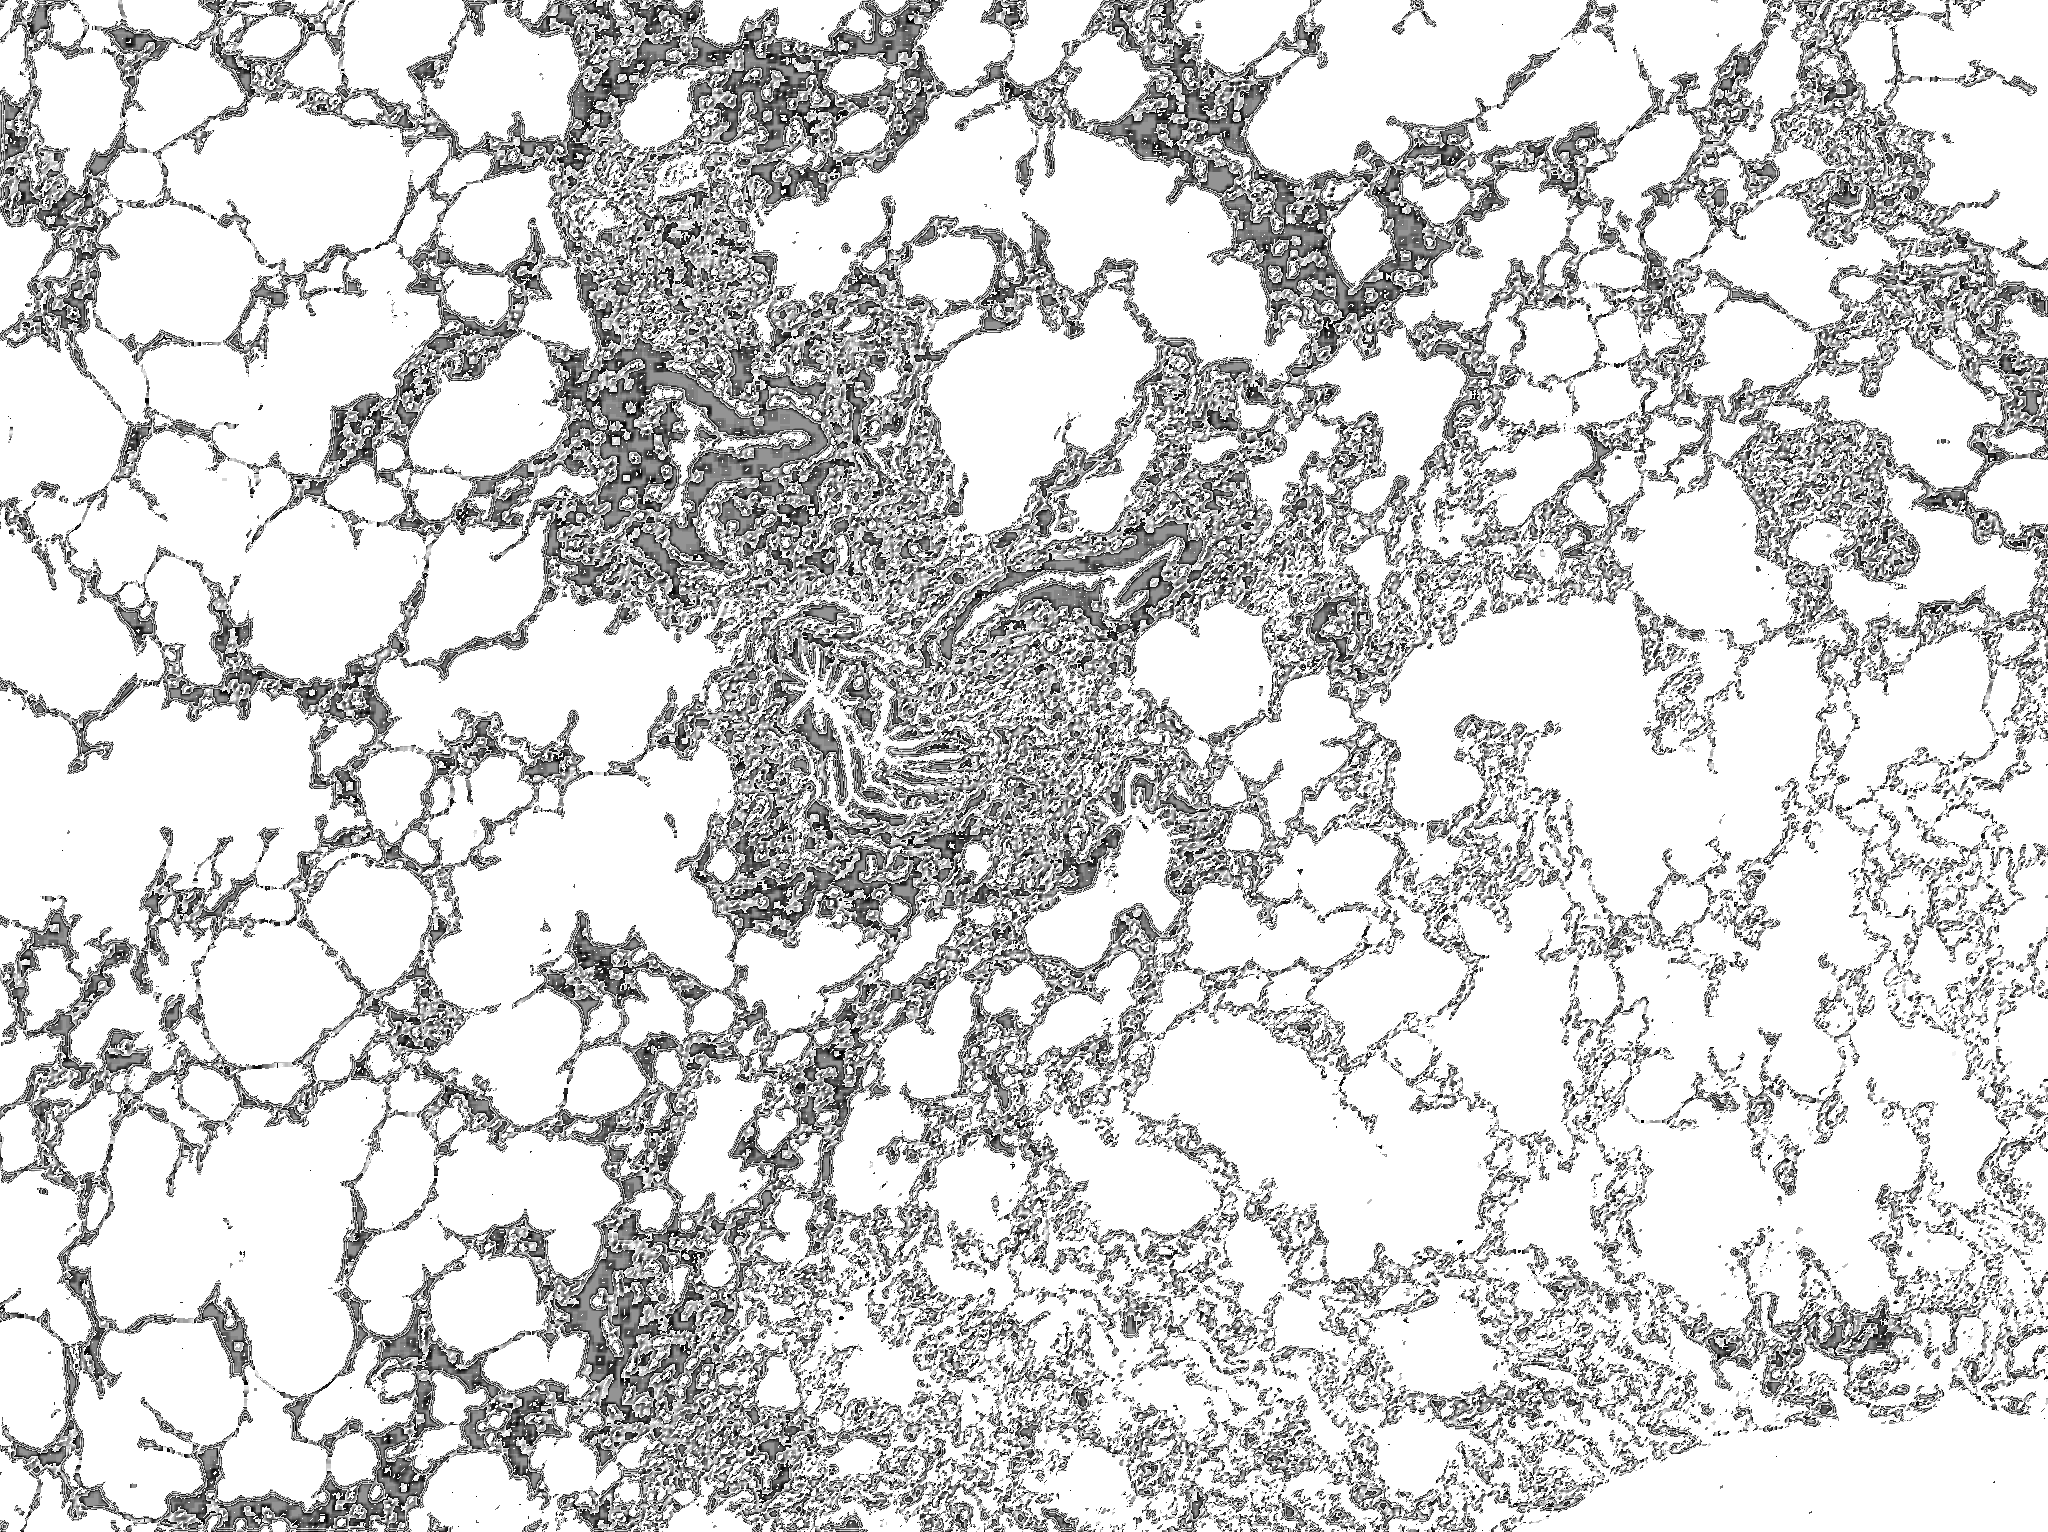
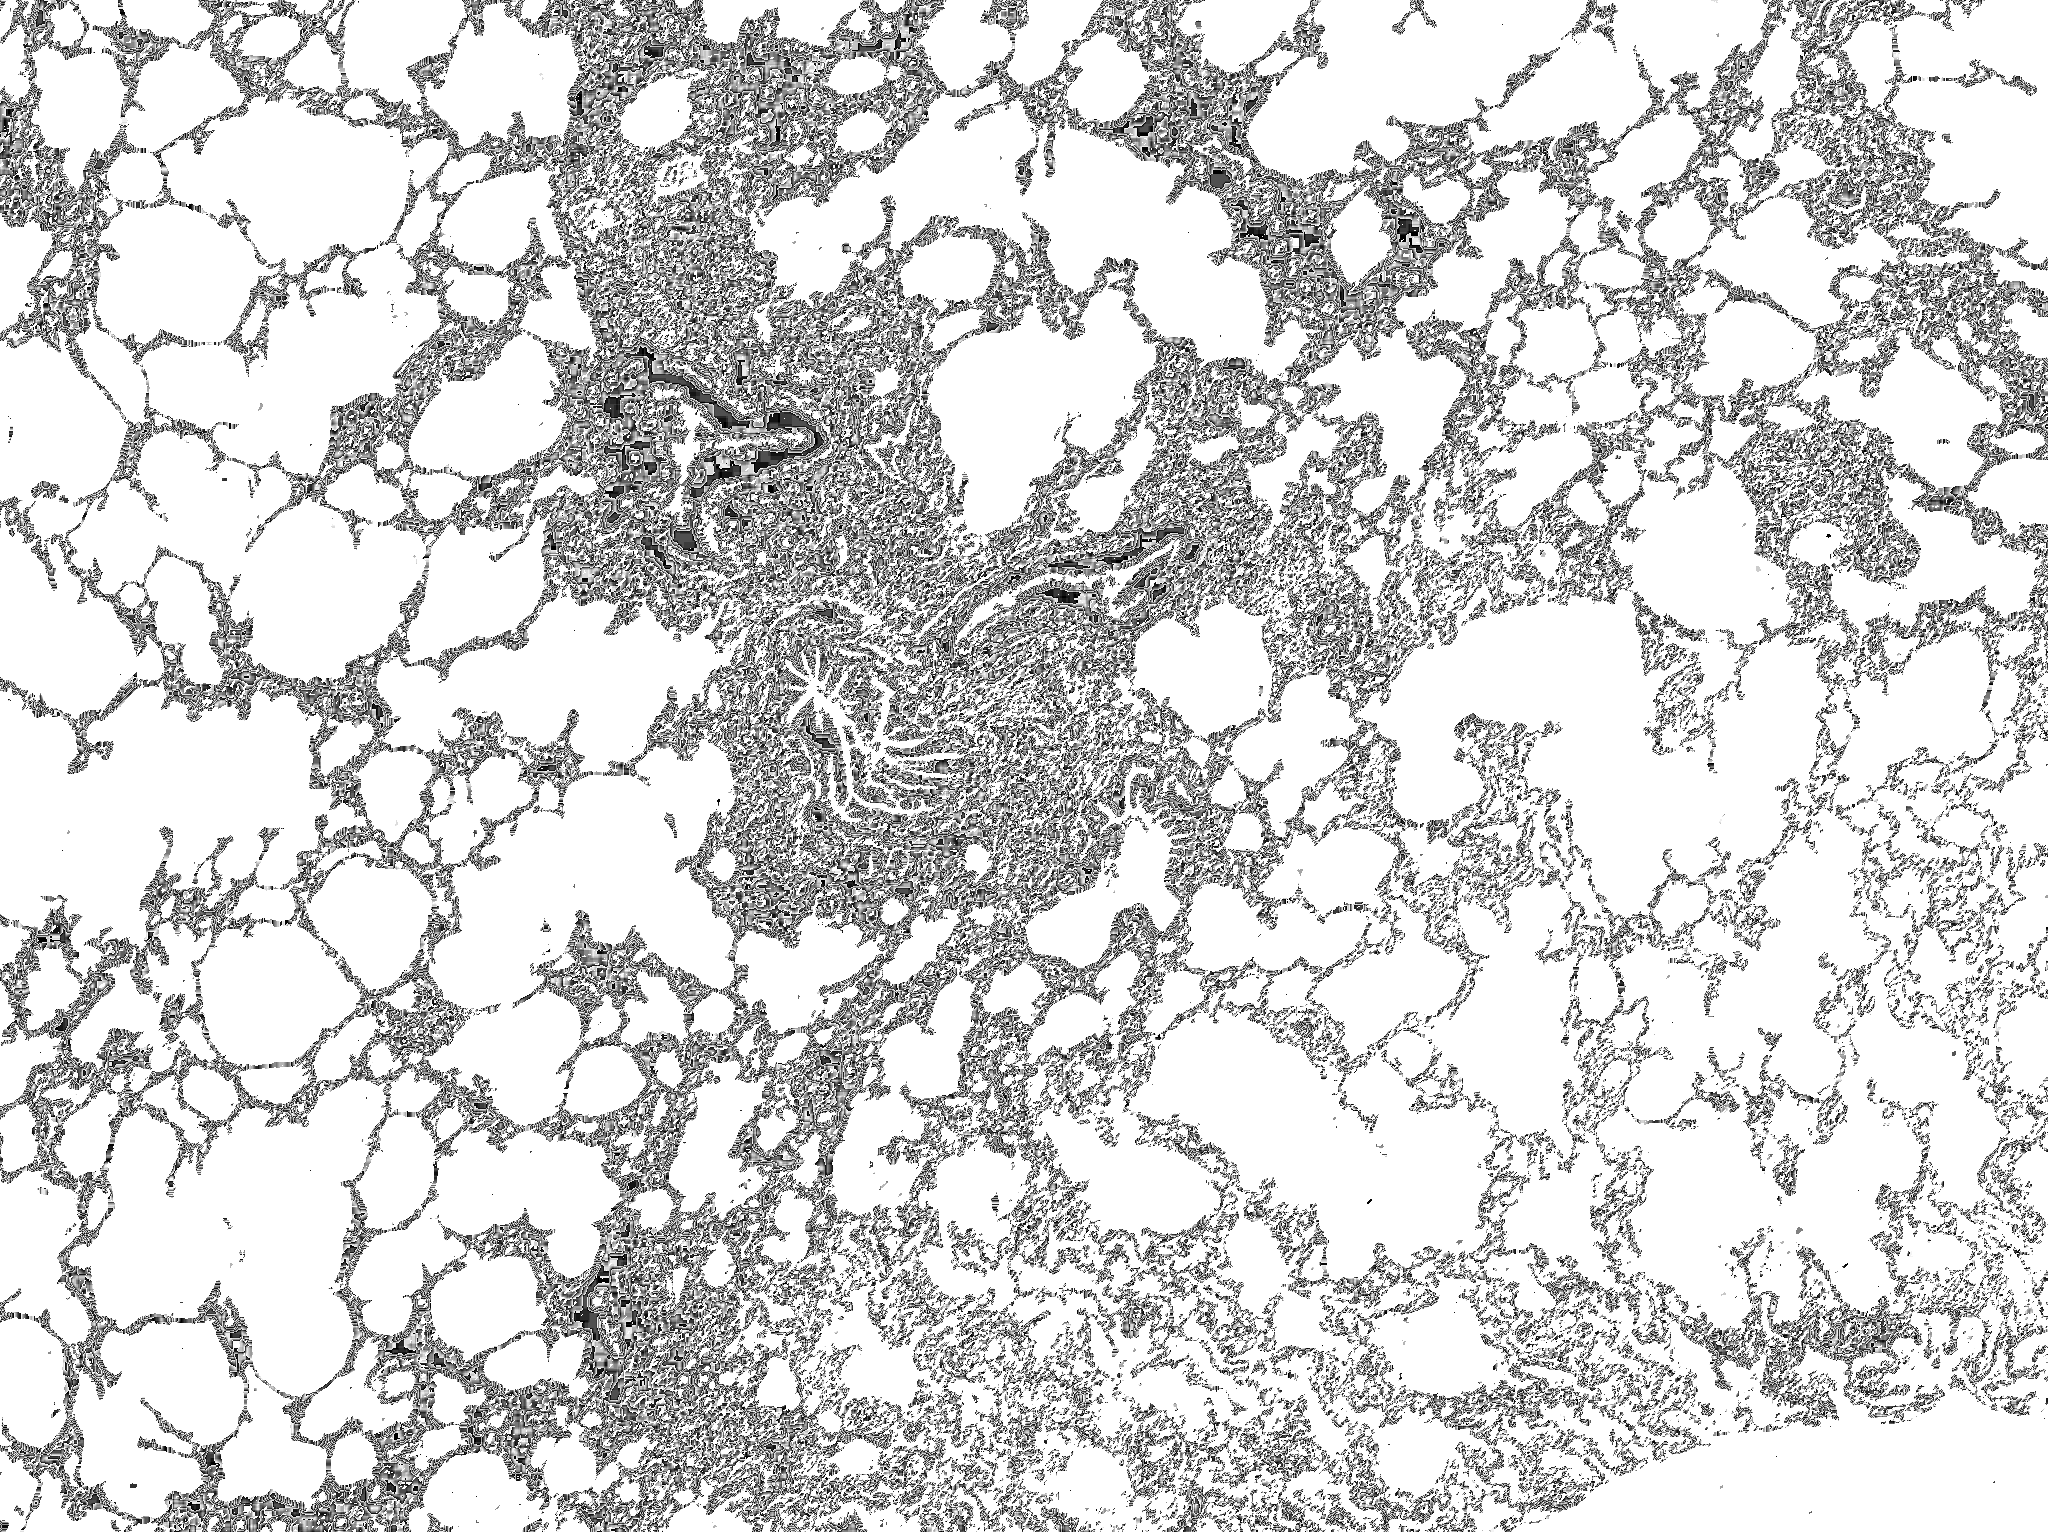
density

diff --git a/src/Main.py b/src/Main.py
@@ -9,7 +9,7 @@ import matplotlib as mpl
 import matplotlib.image as mpimg
 
 
-imageDir = "/home/oscar/MEGA/post-doc/src/input/rp/patient_1/00529 (1).jpg"
+imageDir = "/home/oscar/MEGA/post-doc/src/input/rp/patient_1/small_1.jpg"
 image = cv2.imread(imageDir)
 
 imageGray = cv2.cvtColor(image, cv2.COLOR_BGR2GRAY)
@@ -19,12 +19,12 @@ otsu = segmetBackground(imageGray)
 
 density = identifyHighDensity(otsu, 7)
 
-cv2.imwrite('00529 (1).png',density)
+cv2.imwrite('output_1.png',density)
 
 cv2.imshow("input Image", density);
 
 
-#plt.imshow(density, cmap='hot')
+plt.imshow(density, cmap='hot')
 
 
 cv2.waitKey(0)
